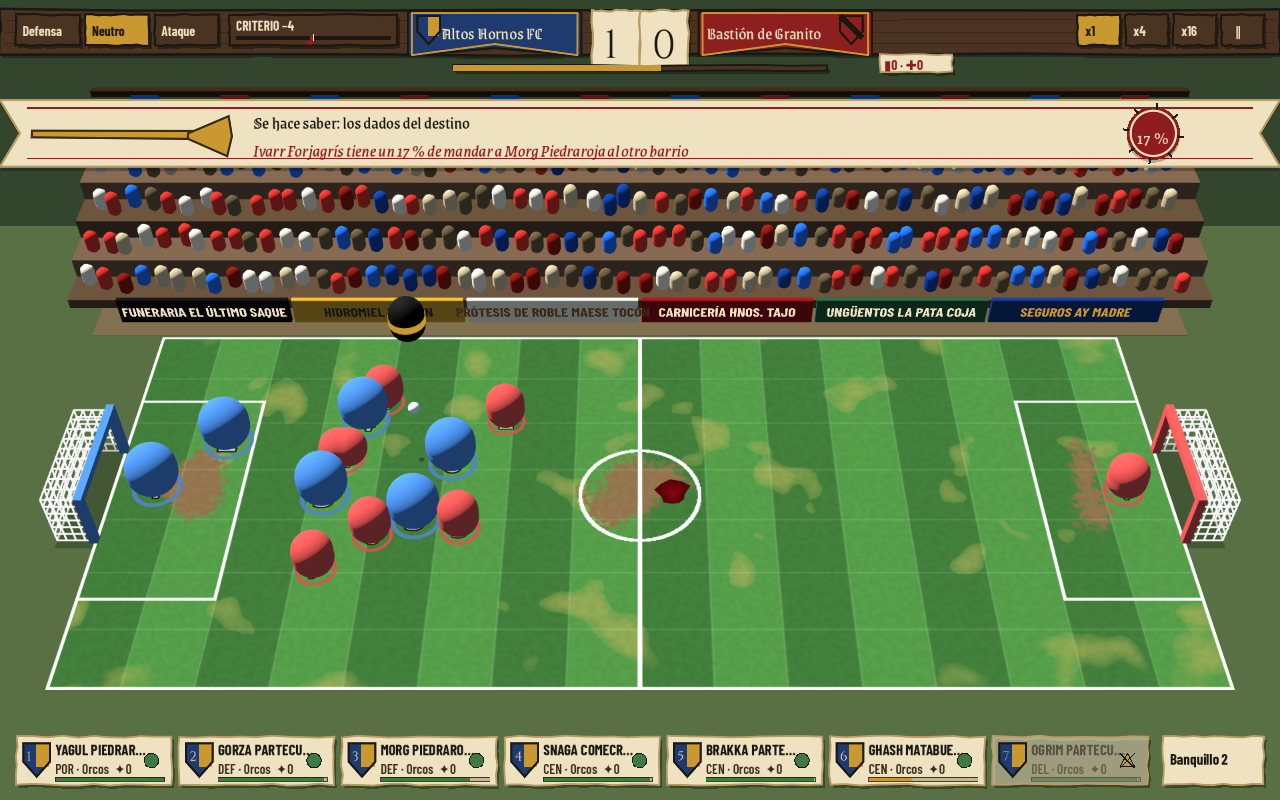
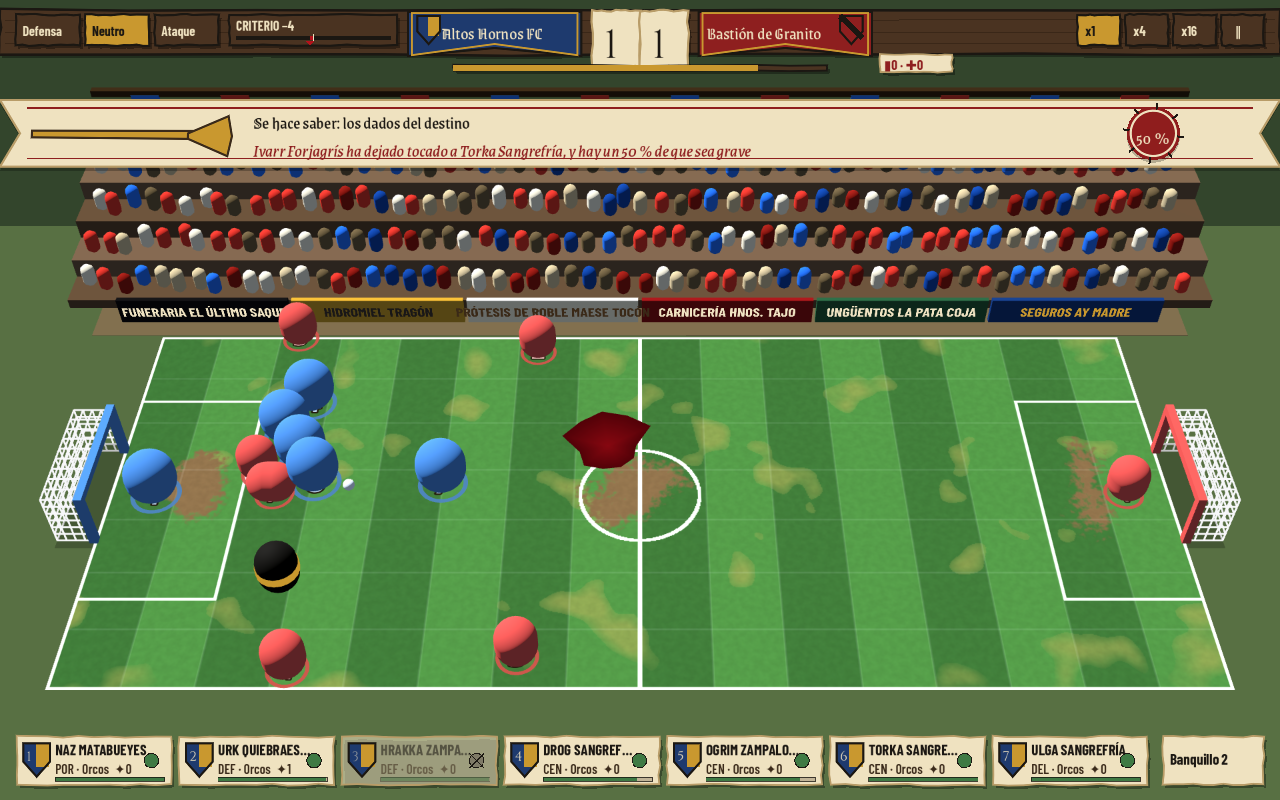
fix(game): la banda del destino sólo cuenta el resultado cuando se salva, el golpe lo cuenta la lesión o la muerte, y el director aguanta búsquedas y cambios de velocidad — ADR 0171
Claude-Session: https://claude.ai/code/session_01WB28ukztfAkxX7LkbMPfzV

diff --git a/Game/Screens/BroadcastCapture.cs b/Game/Screens/BroadcastCapture.cs
@@ -1128,7 +1128,8 @@ public partial class BroadcastCapture : Control
     {
         (ulong Seed, int Node, MatchMoment Moment, string Detail)? saved = null;
         (ulong Seed, int Node, MatchMoment Moment, string Detail)? hit = null;
-        for (ulong seed = 20260905UL; (saved is null || hit is null) && seed < 20260905UL + 40; seed++)
+        (ulong Seed, int Node, MatchMoment Moment, string Detail)? death = null;
+        for (ulong seed = 20260905UL; (saved is null || hit is null || death is null) && seed < 20260905UL + 80; seed++)
         {
             run.NewRun("orc_ironworks", Race.Orc, seed);
             run.JumpToAct(3);
@@ -1150,25 +1151,33 @@ public partial class BroadcastCapture : Control
                 }
 
                 string detail = playback.Result.Events[moment.EventIndices[0]].Detail;
-                if (detail.EndsWith(":saved", StringComparison.Ordinal))
+                var found = (seed, node, moment, detail);
+                if (detail.StartsWith("death", StringComparison.Ordinal))
                 {
-                    saved ??= (seed, node, moment, detail);
+                    if (detail.EndsWith(":hit", StringComparison.Ordinal))
+                    {
+                        death ??= found;
+                    }
+                }
+                else if (detail.EndsWith(":saved", StringComparison.Ordinal))
+                {
+                    saved ??= found;
                 }
                 else
                 {
-                    hit ??= (seed, node, moment, detail);
+                    hit ??= found;
                 }
             }
         }
 
-        foreach (var (label, found) in new[] { ("salvada", saved), ("caída", hit) })
+        foreach (var (label, found) in new[] { ("grave salvada", saved), ("grave caída", hit), ("muerte", death) })
         {
             GD.Print(found is { } f
                 ? $"retransmisión: tirada del destino {label} en la semilla {f.Seed}, nodo {f.Node}, fotogramas {f.Moment.Frame}-{f.Moment.LastFrame}, {f.Detail}"
                 : $"retransmisión: ninguna semilla tiene una tirada del destino {label}");
         }
 
-        foreach (var (label, found) in new[] { ("salva", saved), ("cae", hit) })
+        foreach (var (label, found) in new[] { ("salva", saved), ("cae", hit), ("muerte", death) })
         {
             if (found is not { } f)
             {
@@ -1189,13 +1198,14 @@ public partial class BroadcastCapture : Control
             // propio fotograma y la cámara lenta no se vería.
             await ShowFrame(screen, Math.Max(f.Moment.Frame - 30, 0), "destino-" + label);
             const double Delta = 1d / 120d;
-            async Task StepUntil(Func<bool> done, string name)
+            async Task StepUntil(Func<bool> done, string name, int extraSteps = 0)
             {
                 for (int i = 0; i < 4000 && !done(); i++)
                 {
                     StepManual(screen, Delta, 1);
                 }
 
+                StepManual(screen, Delta, extraSteps);
                 await Settle(2);
                 GD.Print($"{name}: fotograma {screen.Pitch3D.Frame}");
                 await Save(name);
@@ -1203,11 +1213,13 @@ public partial class BroadcastCapture : Control
 
             await StepUntil(() => screen.Pitch3D.Frame >= f.Moment.Frame - 4, "destino-" + label + "-0-antes");
             await StepUntil(() => screen.Pitch3D.Frame >= f.Moment.Frame + 3, "destino-" + label + "-1-rueda");
-            if (label == "salva")
-            {
-                await StepUntil(() => screen.Pitch3D.Frame >= f.Moment.LastFrame + 2, "destino-" + label + "-2-resultado");
-            }
 
+            // El resultado: si se salva, lo cuenta la banda; si cae, la presentación de la lesión o de la
+            // muerte («los dados lo han querido»; el bando de la muerte llega tras su retardo real).
+            await StepUntil(
+                () => screen.Pitch3D.Frame >= (label == "salva" ? f.Moment.LastFrame + 2 : f.Moment.LastFrame - 1),
+                "destino-" + label + "-2-resultado",
+                extraSteps: label == "muerte" ? 200 : 6);
             Drop(instance);
         }
     }

diff --git a/Game/Screens/BroadcastScreen.cs b/Game/Screens/BroadcastScreen.cs
@@ -986,7 +986,9 @@ public partial class BroadcastScreen : Control
             UiText.Get("ui.pregon.banner.said"),
             UiText.Get("ui.pregon.banner.injuryTitle"),
             UiText.Get("ui.pregon.banner.injuryBody", name, position),
-            UiText.Get("ui.pregon.banner.injuryFooter"));
+            DiceWanted(injury)
+                ? UiText.Get("ui.pregon.banner.injuryFooter") + " · " + UiText.Get("ui.pregon.fate.diceWanted")
+                : UiText.Get("ui.pregon.banner.injuryFooter"));
 
         // Sacudida más corta que la del gol (docs/ui/README §4), SOLO a x1.
         if (Speeds[_speedIndex] == 1)
@@ -1027,24 +1029,26 @@ public partial class BroadcastScreen : Control
             victim,
             percent);
 
-        bool rolling = Speeds[_speedIndex] == 1 && result.DisplayFrame < moment.LastFrame;
-        if (rolling)
+        // Rueda hasta el fotograma de la tirada, a la velocidad que sea: el desenlace no se cuenta antes de
+        // tiempo (a x4 no hay cámara lenta, pero el resultado sigue esperando a su fotograma).
+        bool rolling = result.DisplayFrame < moment.LastFrame;
+        float span = Math.Max(moment.LastFrame - moment.Frame, 1);
+        float spin = Mathf.Clamp((result.DisplayFrame - moment.Frame) / span, 0f, 1f);
+        if (rolling || hit)
         {
-            float span = Math.Max(moment.LastFrame - moment.Frame, 1);
-            float spin = (result.DisplayFrame - moment.Frame) / span;
+            // Un golpe real lo cuenta la presentación de la lesión o la muerte («los dados lo han querido»):
+            // la banda no lo repite. Si aquella no llega a presentarse (x4/x16), el sello se queda parado.
             _band.ShowFate(UiText.Get("ui.pregon.fate.header"), announce, percent + " %", spin, ProclamationBand.FateOutcome.Rolling);
             return;
         }
 
-        string headline = !hit
-            ? UiText.Get("ui.pregon.fate.saved")
-            : UiText.Get(lethal ? "ui.pregon.fate.hitDeath" : "ui.pregon.fate.hitSevere");
+        // Salvada: la única vez que la banda cuenta el resultado. Salir de la grave es salir con una leve.
         _band.ShowFate(
-            headline,
+            UiText.Get(lethal ? "ui.pregon.fate.savedDeath" : "ui.pregon.fate.savedSevere"),
             announce,
             percent + " %",
             1f,
-            hit ? ProclamationBand.FateOutcome.Hit : ProclamationBand.FateOutcome.Saved);
+            ProclamationBand.FateOutcome.Saved);
     }
 
     private void ShowMobBand()
@@ -1130,7 +1134,28 @@ public partial class BroadcastScreen : Control
         string body = perk.Length > 0
             ? UiText.Get("ui.pregon.edict.bodyWithCause", position, minute, perk)
             : UiText.Get("ui.pregon.edict.body", position, minute);
-        _edict.Show(name, body);
+        _edict.Show(name, DiceWanted(death) ? body + " · " + UiText.Get("ui.pregon.fate.diceWanted") : body);
+    }
+
+    /// <summary>
+    /// ADR 0171: si esta lesión grave o esta muerte es el desenlace real de una tirada del destino anunciada (el
+    /// <c>FATE_ROLL</c> del mismo tick y jugador acabó en golpe). El desenlace de un golpe lo cuenta la propia
+    /// presentación de la lesión o la muerte, no una banda aparte; la pantalla sólo lee el evento (RT-014).
+    /// </summary>
+    private bool DiceWanted(MatchEvent outcome)
+    {
+        var events = _playback.Result.Events;
+        for (int i = 0; i < events.Count; i++)
+        {
+            var e = events[i];
+            if (e.Tick == outcome.Tick && e.Actor == outcome.Actor && e.Type == EventType.FateRoll
+                && e.Detail.EndsWith(":hit", StringComparison.Ordinal))
+            {
+                return true;
+            }
+        }
+
+        return false;
     }
 
     private void ShowRecord(MatchMoment moment)

diff --git a/Game/Match/PresentationDirector.cs b/Game/Match/PresentationDirector.cs
@@ -104,6 +104,12 @@ public sealed class PresentationDirector
 
     private int _nextMomentIndex;
 
+    /// <summary>El fotograma de la última búsqueda (<see cref="Seek"/>): lo anterior a él está pasado, salvo una tirada del destino a medias.</summary>
+    private int _seekFrame;
+
+    private bool IsPending(MatchMoment moment) =>
+        moment.Frame >= _seekFrame || (moment.Kind == MomentKind.Fate && moment.LastFrame >= _seekFrame);
+
     private MatchMoment? _stamp;
     private double _stampElapsed;
     private double _stampDuration;
@@ -154,8 +160,12 @@ public sealed class PresentationDirector
         _frozen = false;
         _awaitingDecision = false;
 
+        // ADR 0171: una tirada del destino que ya ha empezado (su Frame es 8 fotogramas anterior al de la tirada)
+        // sigue viva si la búsqueda cae dentro de ella —típicamente, la decisión de sustitución de una lesión
+        // reanuda en el fotograma siguiente al suyo—; se cuenta desde su fotograma de la tirada, no desde el de arranque.
+        _seekFrame = frame;
         int index = 0;
-        while (index < _moments.Count && _moments[index].Frame < frame)
+        while (index < _moments.Count && !IsPending(_moments[index]))
         {
             index++;
         }
@@ -215,6 +225,10 @@ public sealed class PresentationDirector
         {
             var moment = _moments[_nextMomentIndex];
             _nextMomentIndex++;
+            if (!IsPending(moment))
+            {
+                continue;
+            }
 
             if (moment.Decision)
             {
@@ -414,7 +428,7 @@ public sealed class PresentationDirector
 
         // ADR 0171: la cámara lenta dura hasta el fotograma de la tirada, y sólo si la voz de la tirada se
         // presenta completa (a x4 va comprimida y no frena nada). Congelado no hay reloj que escalar.
-        double timeScale = !frozen && _voice is { Kind: MomentKind.Fate } fate && !_voiceCompressed && displayFrame < fate.LastFrame
+        double timeScale = !frozen && _lastSpeed == 1 && _voice is { Kind: MomentKind.Fate } fate && !_voiceCompressed && displayFrame < fate.LastFrame
             ? _timings.FateSlowScale
             : 1d;
         return new DirectorFrame(frozen, displayFrame, _voice, voiceProgress, _stamp, stampProgress, _awaitingDecision, timeScale);

diff --git a/Game/Ui/UiText.cs b/Game/Ui/UiText.cs
@@ -792,13 +792,13 @@ public static class UiText
         // ADR 0171, la tirada del destino. {0} = quien tira, {1} = quien se la juega, {2} = el porcentaje real
         // (viene del motor, la pantalla no lo calcula). Humor de pregonero, sin nombres internos.
         ["ui.pregon.fate.header"] = "Se hace saber: los dados del destino",
-        ["ui.pregon.fate.severe"] = "{0} tiene un {2} % de partirle la crisma a {1}",
-        ["ui.pregon.fate.severeNobody"] = "{1} tiene un {2} % de que le partan la crisma",
+        ["ui.pregon.fate.severe"] = "{0} ha dejado tocado a {1}, y hay un {2} % de que sea grave",
+        ["ui.pregon.fate.severeNobody"] = "{1} está tocado, y hay un {2} % de que sea grave",
         ["ui.pregon.fate.death"] = "{0} tiene un {2} % de mandar a {1} al otro barrio",
         ["ui.pregon.fate.deathNobody"] = "{1} tiene un {2} % de irse al otro barrio",
-        ["ui.pregon.fate.saved"] = "¡SE SALVA!, por los pelos",
-        ["ui.pregon.fate.hitSevere"] = "Los dados lo han querido: a la enfermería",
-        ["ui.pregon.fate.hitDeath"] = "Los dados lo han querido: no lo cuenta",
+        ["ui.pregon.fate.savedSevere"] = "Sólo un rasguño: se libra de la grave por los pelos",
+        ["ui.pregon.fate.savedDeath"] = "¡SE SALVA! Por los pelos",
+        ["ui.pregon.fate.diceWanted"] = "los dados lo han querido",
         ["ui.pregon.turba.header"] = "Se hace saber: el árbitro abandona el campo",
         ["ui.pregon.turba.body"] = "¡A la turba! · el próximo gol gana",
         ["ui.pregon.turba.bodyTyped"] = "¡A la turba! · {0} · el próximo gol gana",
